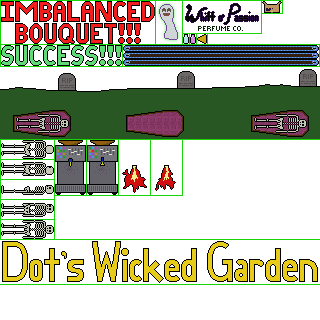
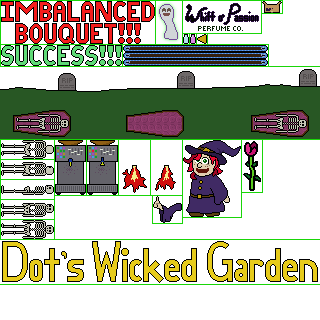
fabulous animation for hello menu

Changed region(s): [[0.4688, 0.4375, 0.8438, 0.7188], [0.8125, 0.125, 1.0, 0.2188]]

diff --git a/src/game/zs_layer_hello.c b/src/game/zs_layer_hello.c
@@ -16,6 +16,8 @@
 #define OPTID_SOUND 29
 #define OPTID_QUIT 30
 
+#define DOTCLOCK_PERIOD 1.500
+
 struct zs_layer_hello {
   struct zs_layer hdr;
   
@@ -42,6 +44,8 @@ struct zs_layer_hello {
   } optionv[OPTION_LIMIT];
   int optionc,optionp;
   double optionclock; // For blinking the arrows.
+  
+  double dotclock; // Increases and loops.
 };
 
 #define LAYER ((struct zs_layer_hello*)layer)
@@ -133,6 +137,8 @@ static void _hello_update(struct zs_layer *layer,double elapsed,int input,int pv
     LAYER->optionclock-=0.500;
   }
   
+  if ((LAYER->dotclock+=elapsed)>=DOTCLOCK_PERIOD) LAYER->dotclock-=DOTCLOCK_PERIOD;
+  
   if ((input&EGG_BTN_LEFT)&&!(pvinput&EGG_BTN_LEFT)) {
     egg_play_sound(RID_sound_uimotion);
     if (--(LAYER->optionp)<0) LAYER->optionp=LAYER->optionc-1;
@@ -186,6 +192,15 @@ static void _hello_render(struct zs_layer *layer) {
       graf_draw_decal(&g.graf,g.texid_uibits,(FBW>>1)-5,dsty+option->h+5,197,34,10,10,EGG_XFORM_SWAP|EGG_XFORM_XREV);
     }
   }
+  
+  // Dot.
+  double t=sin((LAYER->dotclock*M_PI*2.0)/DOTCLOCK_PERIOD)*0.300;
+  double sint=sin(t);
+  int fingerdx=(int)(sint*-8.0);
+  if (sint>0.0) fingerdx--;
+  graf_draw_decal(&g.graf,g.texid_uibits,220+fingerdx,120,153,196,29,27,0);
+  graf_draw_mode7(&g.graf,g.texid_uibits,224,108,243,141,18,50,0.5f,0.5f,t,1);
+  graf_draw_decal(&g.graf,g.texid_uibits,230,95,183,140,58,77,0);
 }
 
 /* Helpers for rendering report bits.

diff --git a/src/game/zs_layer_dayend.c b/src/game/zs_layer_dayend.c
@@ -196,6 +196,7 @@ static void dayend_render_bride(struct zs_layer *layer) {
   if (!LAYER->success&&(LAYER->clock>REVELATION_TIME)) {
     int dstx=FBW/3+(NS_sys_tilesize>>1);
     int dsty=bridey;
+    dsty+=((int)(LAYER->clock*10.0+i))&1;
     int srcx=NS_sys_tilesize*5;
     int srcy=NS_sys_tilesize*11;
     graf_draw_decal(&g.graf,g.texid_bouquet,dstx+10,dsty-6,0,0,NS_sys_tilesize,NS_sys_tilesize,EGG_XFORM_SWAP);
@@ -283,11 +284,11 @@ static void dayend_render_dowager(struct zs_layer *layer) {
 static void dayend_render_parfumier(struct zs_layer *layer) {
 
   // Corporate banner in the background, static.
-  graf_draw_decal(&g.graf,g.texid_uibits,(FBW>>1)+NS_sys_tilesize*3,(FBH>>1)+12,183,1,78,32,0);
+  graf_draw_decal(&g.graf,g.texid_uibits,(FBW>>1)+NS_sys_tilesize*3,(FBH>>1)+20,183,1,78,32,0);
   
   // Establish conveyor belt's position, most of the rest depends on it. Ditto parfumier.
-  int cvw=196,cvh=7;
-  int cvx=(FBW>>1)-(cvw>>1);
+  int cvw=145,cvh=7;
+  int cvx=(FBW>>1)-(196>>1);
   int cvy=FBH-NS_sys_tilesize*2;
   int pfx=(FBW>>1)-NS_sys_tilesize*3;
   int pfy=cvy-NS_sys_tilesize+3;

diff --git a/README.md b/README.md
@@ -41,7 +41,7 @@ Gather flowers of various colors and get scored based on count and color balance
   S 2025-04-19: Sound effects, revised music, started dayend animations in earnest.
   U 2025-04-20: Dayend animations complete. Map layouts. Persisting achievements, but I'm going to remodel them.
   M 2025-04-21: Revised scoring model, display scores at hello
-  T 2025-04-22: 
+  T 2025-04-22: Options and Dot pic at Hello.
   W 2025-04-23
   R 2025-04-24
   F 2025-04-25
@@ -100,8 +100,8 @@ Gather flowers of various colors and get scored based on count and color balance
 - - - [ ] Prairie
 - - - [ ] Graveyard
 - [x] Sound effects.
-- [ ] Menus.
-- - [ ] Hello
+- [x] Menus.
+- - [x] Hello
 - - [x] Game over -- XXX Remove, just use Hello.
 - - [x] Deliver
 - [x] Achievements. Calculate these at gameover, persist, and display at gameover and hello. Record best score and time (independently) for each.
@@ -128,3 +128,5 @@ Gather flowers of various colors and get scored based on count and color balance
 - [x] Playing around fast, I ended up one pixel above the ground on a platform, on map:1. Unclear how. Jump power did not reset until I walked off the platform.
 - - Happens pretty reliably if you climb onto a ladder from the ground, then climb it back down all the way. Main symptom is you won't be allowed to pick flowers.
 - - Need to cheat `graviting` back on as you exit a ladder. Huh, seems like I was just always hopping off ladders above the ground.
+- [ ] NW: Make some variety in the pit, it's boring.
+- [ ] SW: Can I prevent the player from scaling the left wall instead of the right?
